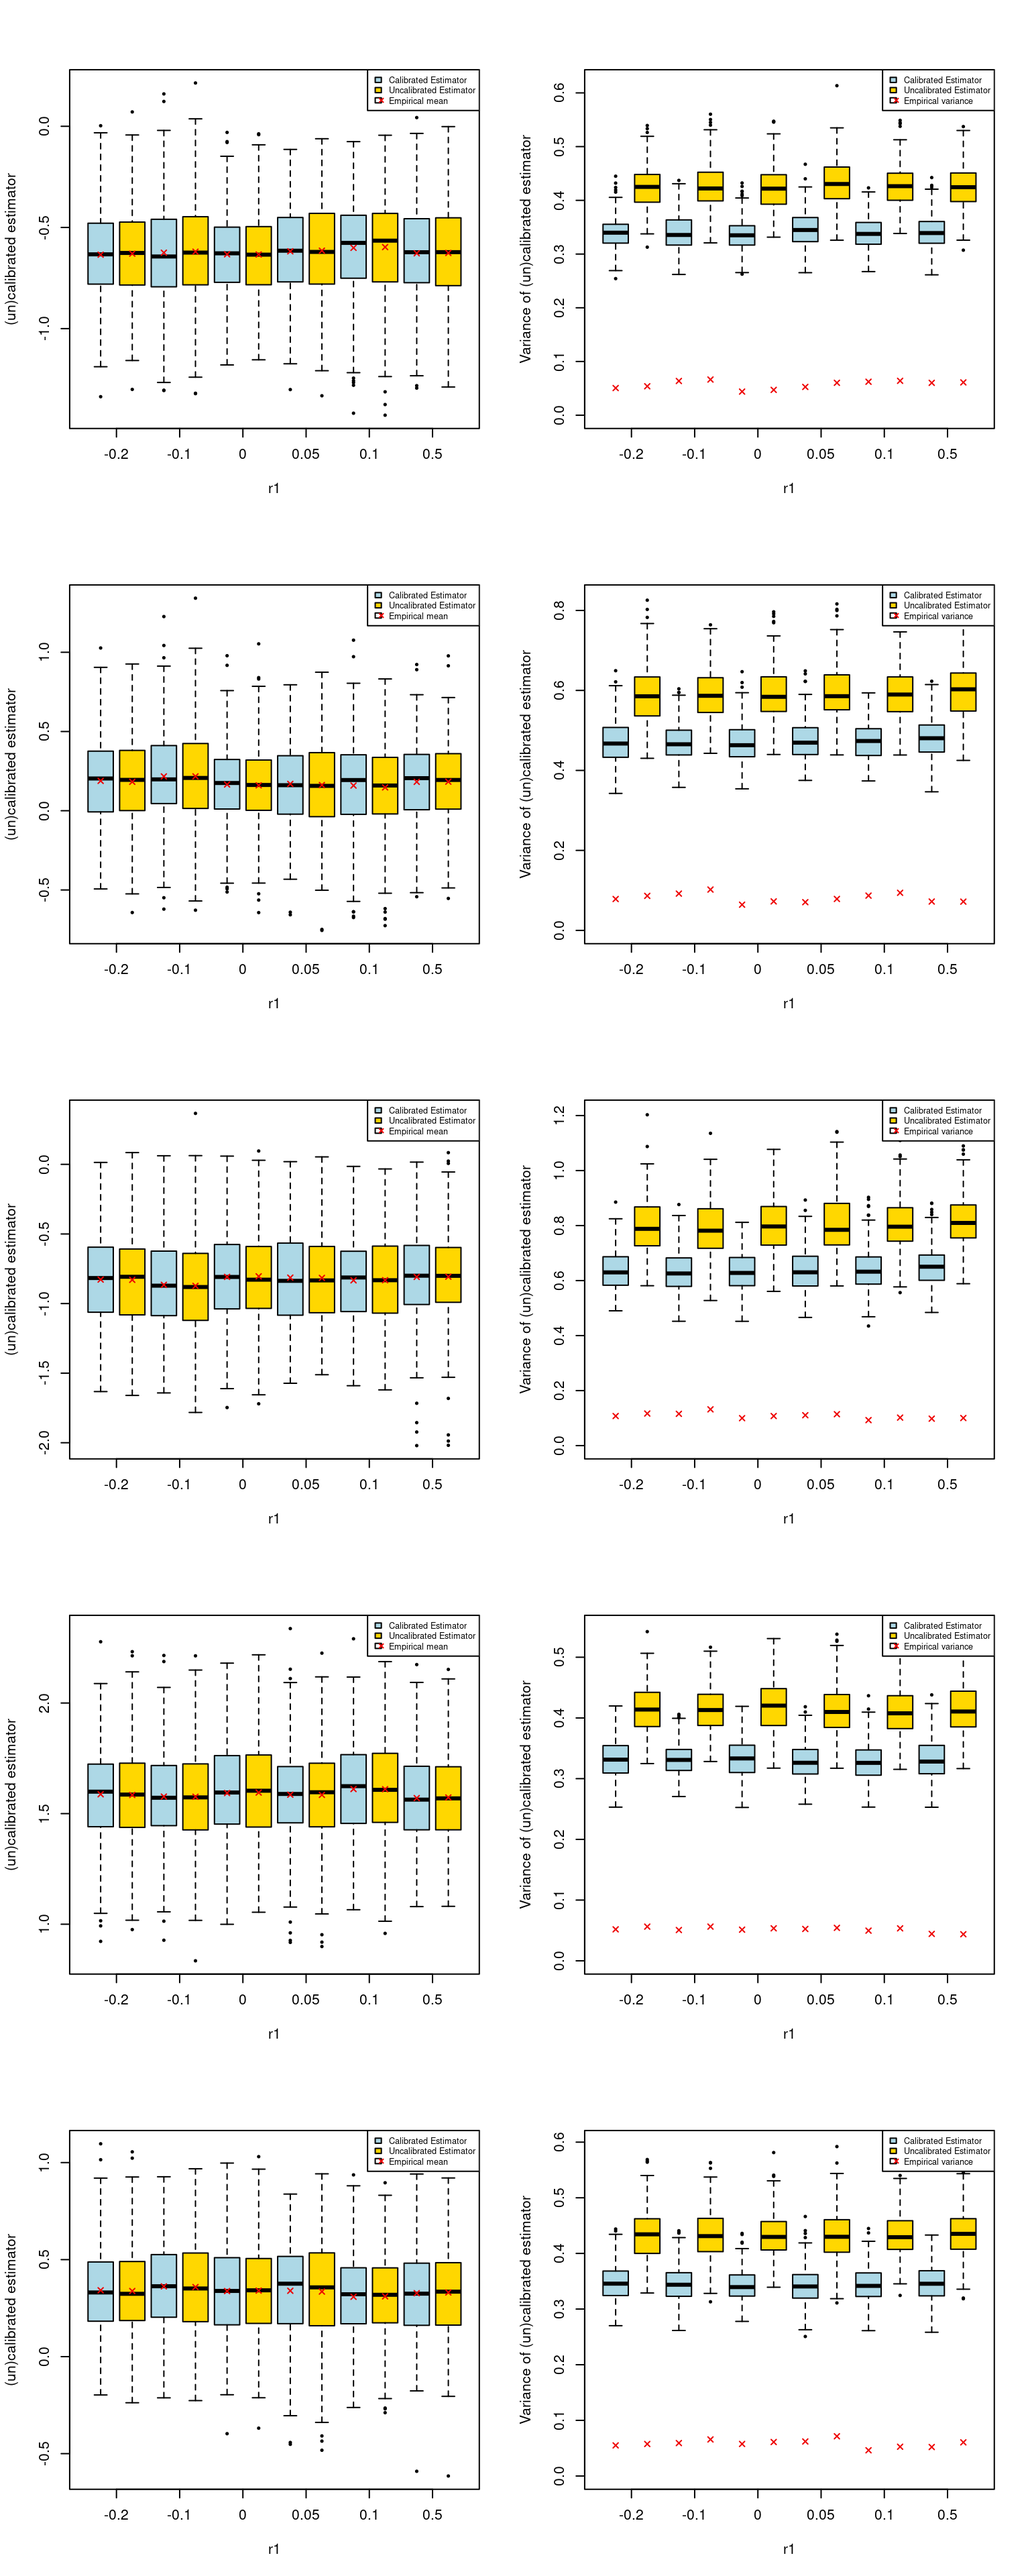
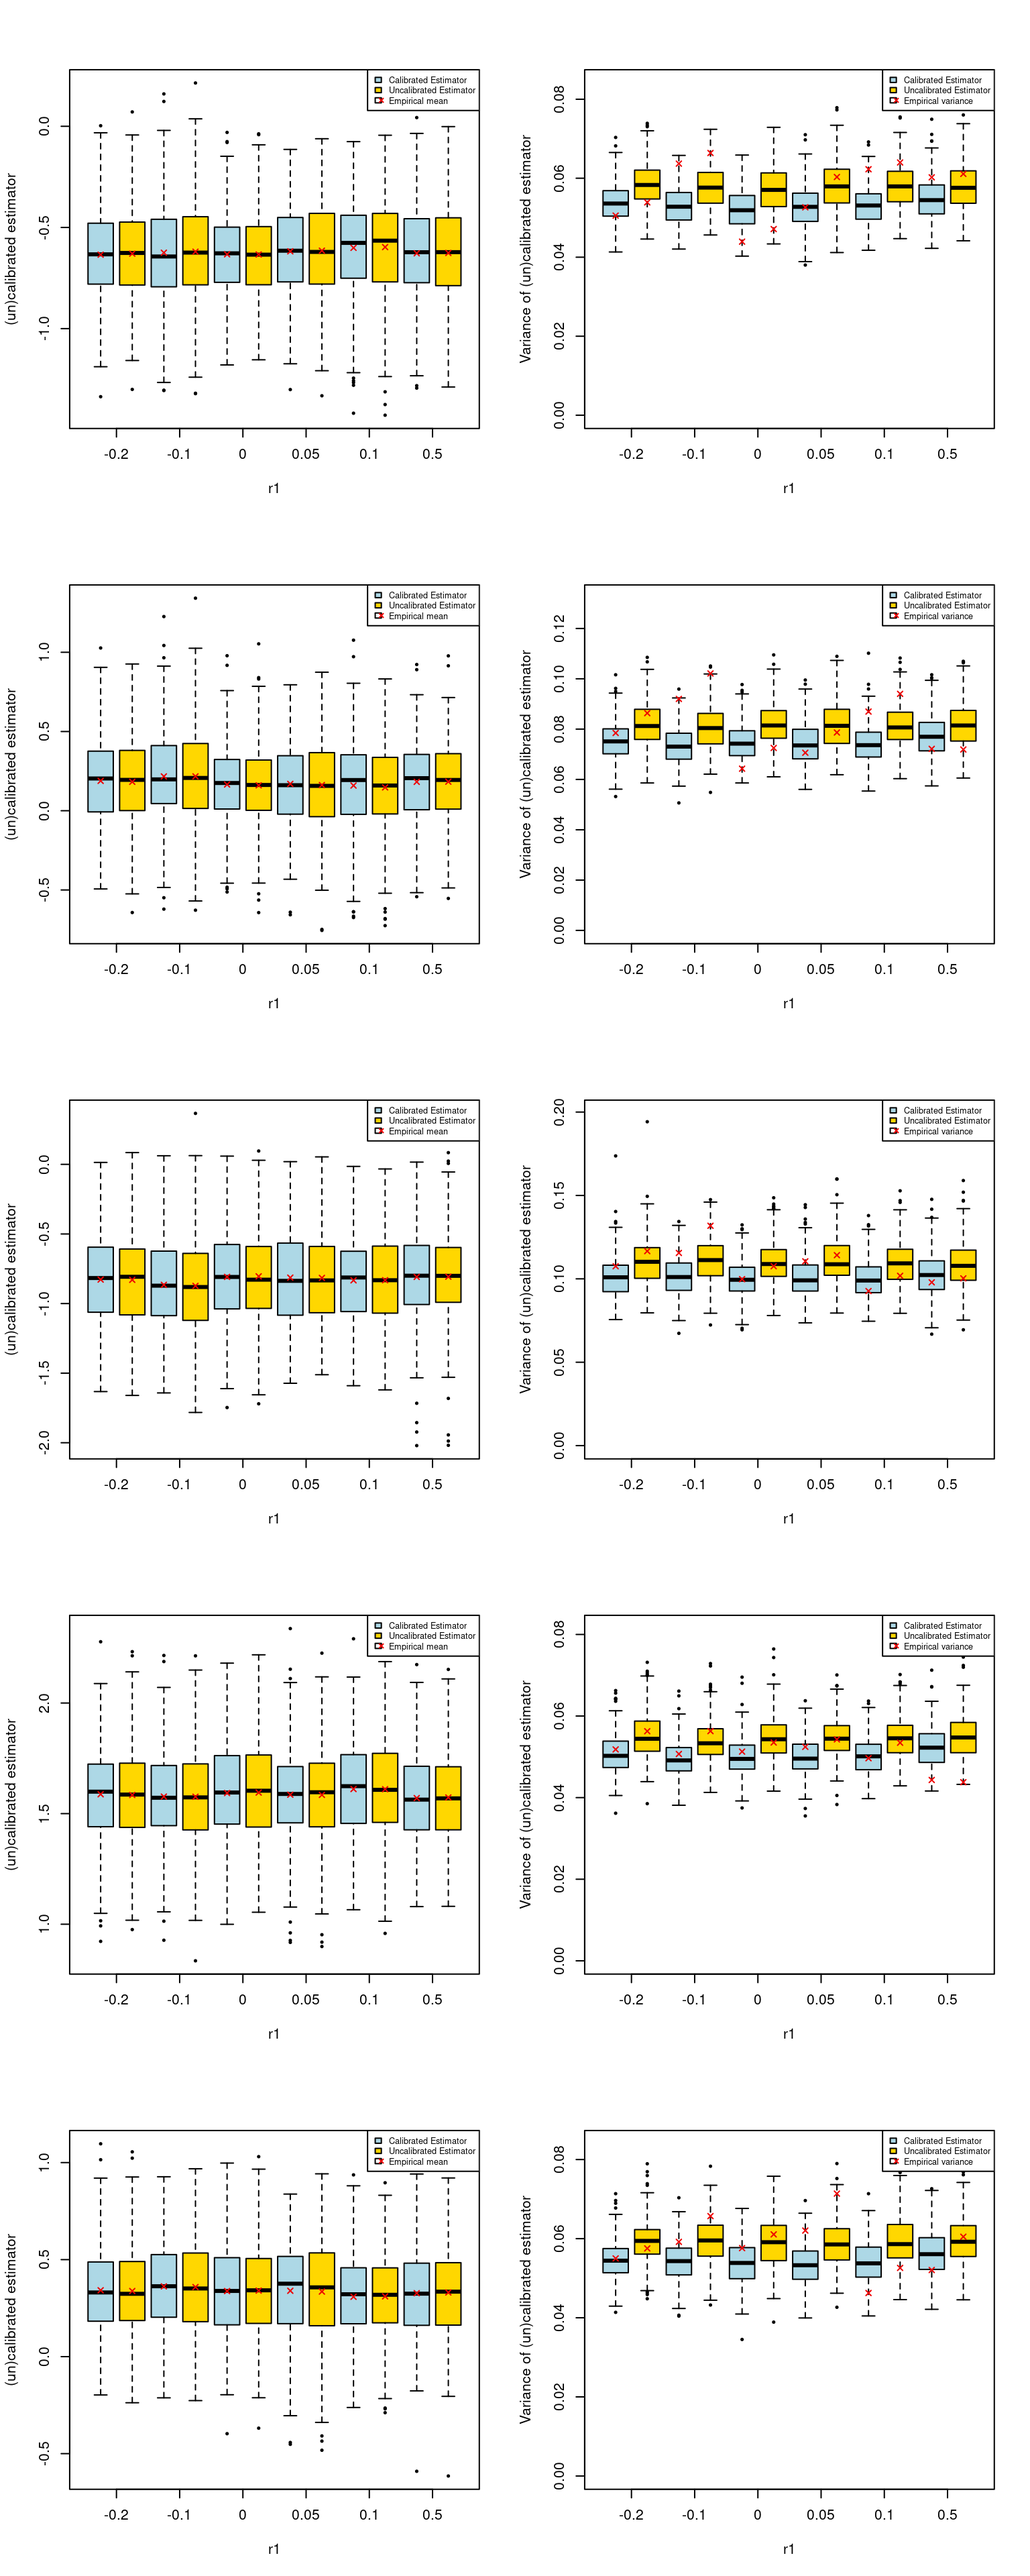
Build site.

diff --git a/docs/calibration_sib_randomX.html b/docs/calibration_sib_randomX.html
@@ -523,15 +523,15 @@ project makes it easier to run your code on other machines.</p>
 <div class="panel panel-default">
 <div class="panel-heading">
 <p class="panel-title">
-<a data-toggle="collapse" data-parent="#workflowr-checks" href="#strongRepositoryversionstrongahrefhttpsgithubcomyunqiyang0215simulationcalibratedmrtree9fb7197e8753474b616de0375922336e49ecc41btargetblank9fb7197a">
+<a data-toggle="collapse" data-parent="#workflowr-checks" href="#strongRepositoryversionstrongahrefhttpsgithubcomyunqiyang0215simulationcalibratedmrtreec9a59862e517b46f27fb4ba27a6fe1adfdb650f0targetblankc9a5986a">
 <span class="glyphicon glyphicon-ok text-success"
 aria-hidden="true"></span> <strong>Repository version:</strong>
-<a href="https://github.com/yunqiyang0215/simulation-calibrated-mr/tree/9fb7197e8753474b616de0375922336e49ecc41b" target="_blank">9fb7197</a>
+<a href="https://github.com/yunqiyang0215/simulation-calibrated-mr/tree/c9a59862e517b46f27fb4ba27a6fe1adfdb650f0" target="_blank">c9a5986</a>
 </a>
 </p>
 </div>
 <div
[2 lines of base64/hex data omitted]
 class="panel-collapse collapse">
 <div class="panel-body">
 <p>
@@ -541,7 +541,7 @@ reproducibility.
 </p>
 <p>
 The results in this page were generated with repository version
-<a href="https://github.com/yunqiyang0215/simulation-calibrated-mr/tree/9fb7197e8753474b616de0375922336e49ecc41b" target="_blank">9fb7197</a>.
+<a href="https://github.com/yunqiyang0215/simulation-calibrated-mr/tree/c9a59862e517b46f27fb4ba27a6fe1adfdb650f0" target="_blank">c9a5986</a>.
 See the <em>Past versions</em> tab to see a history of the changes made
 to the R Markdown and HTML files.
 </p>
@@ -604,6 +604,40 @@ Message
 </tr>
 </thead>
 <tbody>
+<tr>
+<td>
+Rmd
+</td>
+<td>
+<a href="https://github.com/yunqiyang0215/simulation-calibrated-mr/blob/c9a59862e517b46f27fb4ba27a6fe1adfdb650f0/analysis/calibration_sib_randomX.Rmd" target="_blank">c9a5986</a>
+</td>
+<td>
+yunqi yang
+</td>
+<td>
+2024-02-25
+</td>
+<td>
+wflow_publish("analysis/calibration_sib_randomX.Rmd")
+</td>
+</tr>
+<tr>
+<td>
+html
+</td>
+<td>
+<a href="https://rawcdn.githack.com/yunqiyang0215/simulation-calibrated-mr/656ab8d0802c9c1ec4f49c9a5672fee69d621d62/docs/calibration_sib_randomX.html" target="_blank">656ab8d</a>
+</td>
+<td>
+yunqi yang
+</td>
+<td>
+2024-02-25
+</td>
+<td>
+Build site.
+</td>
+</tr>
 <tr>
 <td>
 Rmd
@@ -859,6 +893,17 @@ Date
 <tbody>
 <tr>
 <td>
+<a href="https://github.com/yunqiyang0215/simulation-calibrated-mr/blob/656ab8d0802c9c1ec4f49c9a5672fee69d621d62/docs/figure/calibration_sib_randomX.Rmd/unnamed-chunk-3-1.png" target="_blank">656ab8d</a>
+</td>
+<td>
+yunqi yang
+</td>
+<td>
+2024-02-25
+</td>
+</tr>
+<tr>
+<td>
 <a href="https://github.com/yunqiyang0215/simulation-calibrated-mr/blob/f4e4ad61cfc66b182c55d4d720ebd12cfc8c6467/docs/figure/calibration_sib_randomX.Rmd/unnamed-chunk-3-1.png" target="_blank">f4e4ad6</a>
 </td>
 <td>
@@ -972,6 +1017,17 @@ Date
 <tbody>
 <tr>
 <td>
+<a href="https://github.com/yunqiyang0215/simulation-calibrated-mr/blob/656ab8d0802c9c1ec4f49c9a5672fee69d621d62/docs/figure/calibration_sib_randomX.Rmd/unnamed-chunk-4-1.png" target="_blank">656ab8d</a>
+</td>
+<td>
+yunqi yang
+</td>
+<td>
+2024-02-25
+</td>
+</tr>
+<tr>
+<td>
 <a href="https://github.com/yunqiyang0215/simulation-calibrated-mr/blob/f4e4ad61cfc66b182c55d4d720ebd12cfc8c6467/docs/figure/calibration_sib_randomX.Rmd/unnamed-chunk-4-1.png" target="_blank">f4e4ad6</a>
 </td>
 <td>
@@ -1015,7 +1071,7 @@ for (i in 1:5){
   
   ### Plot variance
   empirical_var = apply(dat_estimator, 2, var)
-  snp_dat_list = lapply(1:length(r1), function(k) combine_single_snp_stat(which(res$sim_data.r1 == r1[k] &amp; res$sim_effect.p == 10 &amp; res$sim_data.sig == 10), i, data.list = res$fit.sumstat, column_names = c(&quot;Y1.cali.var&quot;, &quot;Y1.raw.var&quot;)))
+  snp_dat_list = lapply(1:length(r1), function(k) combine_single_snp_stat(which(res$sim_data.r1 == r1[k] &amp; res$sim_effect.p == 100 &amp; res$sim_data.sig == 1), i, data.list = res$fit.sumstat, column_names = c(&quot;Y1.cali.var&quot;, &quot;Y1.raw.var&quot;)))
   dat_estimator_var &lt;- do.call(cbind, snp_dat_list)
     
   colors &lt;- rep(c(&quot;lightblue&quot;, &quot;gold1&quot;), length.out = ncol(dat_estimator_var))
@@ -1039,6 +1095,43 @@ for (i in 1:5){
   axis(1, at=seq(1.5, by=2, length.out=length(r1)), labels=r1)
 }</code></pre>
 <p><img src="figure/calibration_sib_randomX.Rmd/unnamed-chunk-5-1.png" width="768" style="display: block; margin: auto;" /></p>
+<p>
+<button type="button" class="btn btn-default btn-xs btn-workflowr btn-workflowr-fig" data-toggle="collapse" data-target="#fig-unnamed-chunk-5-1">
+Past versions of unnamed-chunk-5-1.png
+</button>
+</p>
+<div id="fig-unnamed-chunk-5-1" class="collapse">
+<div class="table-responsive">
+<table class="table table-condensed table-hover">
+<thead>
+<tr>
+<th>
+Version
+</th>
+<th>
+Author
+</th>
+<th>
+Date
+</th>
+</tr>
+</thead>
+<tbody>
+<tr>
+<td>
+<a href="https://github.com/yunqiyang0215/simulation-calibrated-mr/blob/656ab8d0802c9c1ec4f49c9a5672fee69d621d62/docs/figure/calibration_sib_randomX.Rmd/unnamed-chunk-5-1.png" target="_blank">656ab8d</a>
+</td>
+<td>
+yunqi yang
+</td>
+<td>
+2024-02-25
+</td>
+</tr>
+</tbody>
+</table>
+</div>
+</div>
 <br>
 <p>
 <button type="button" class="btn btn-default btn-workflowr btn-workflowr-sessioninfo" data-toggle="collapse" data-target="#workflowr-sessioninfo" style="display: block;">
